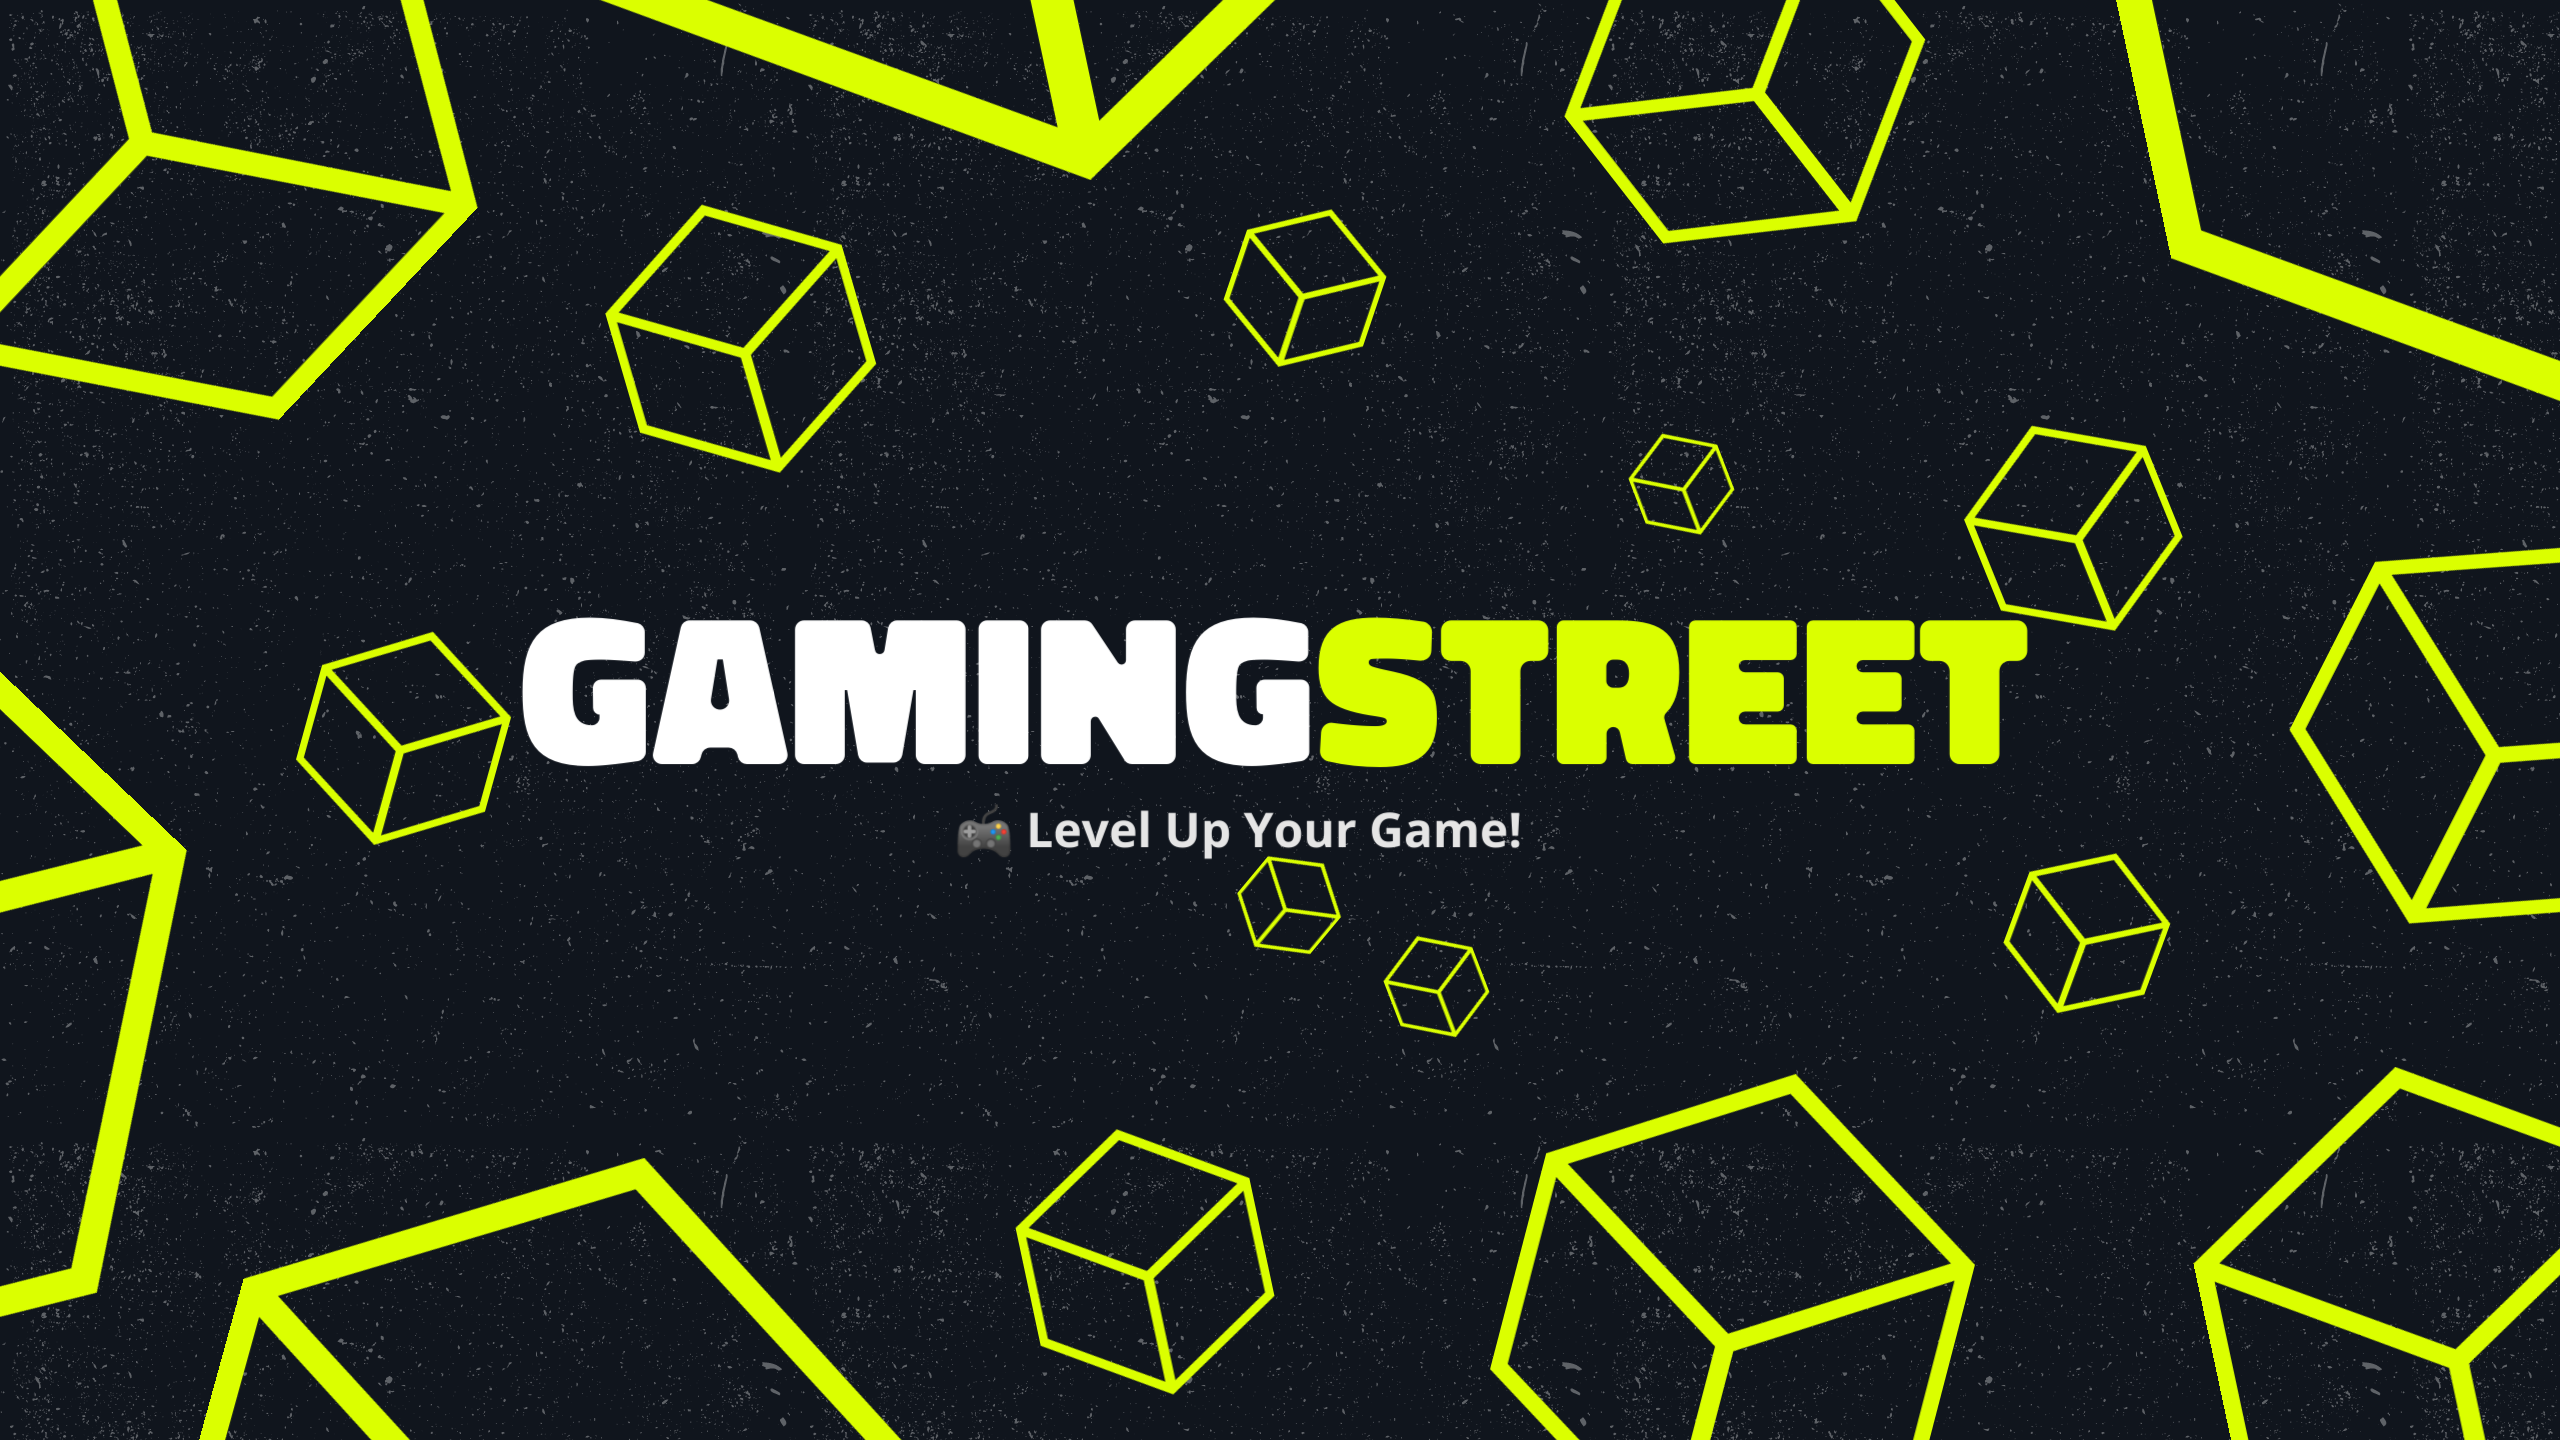
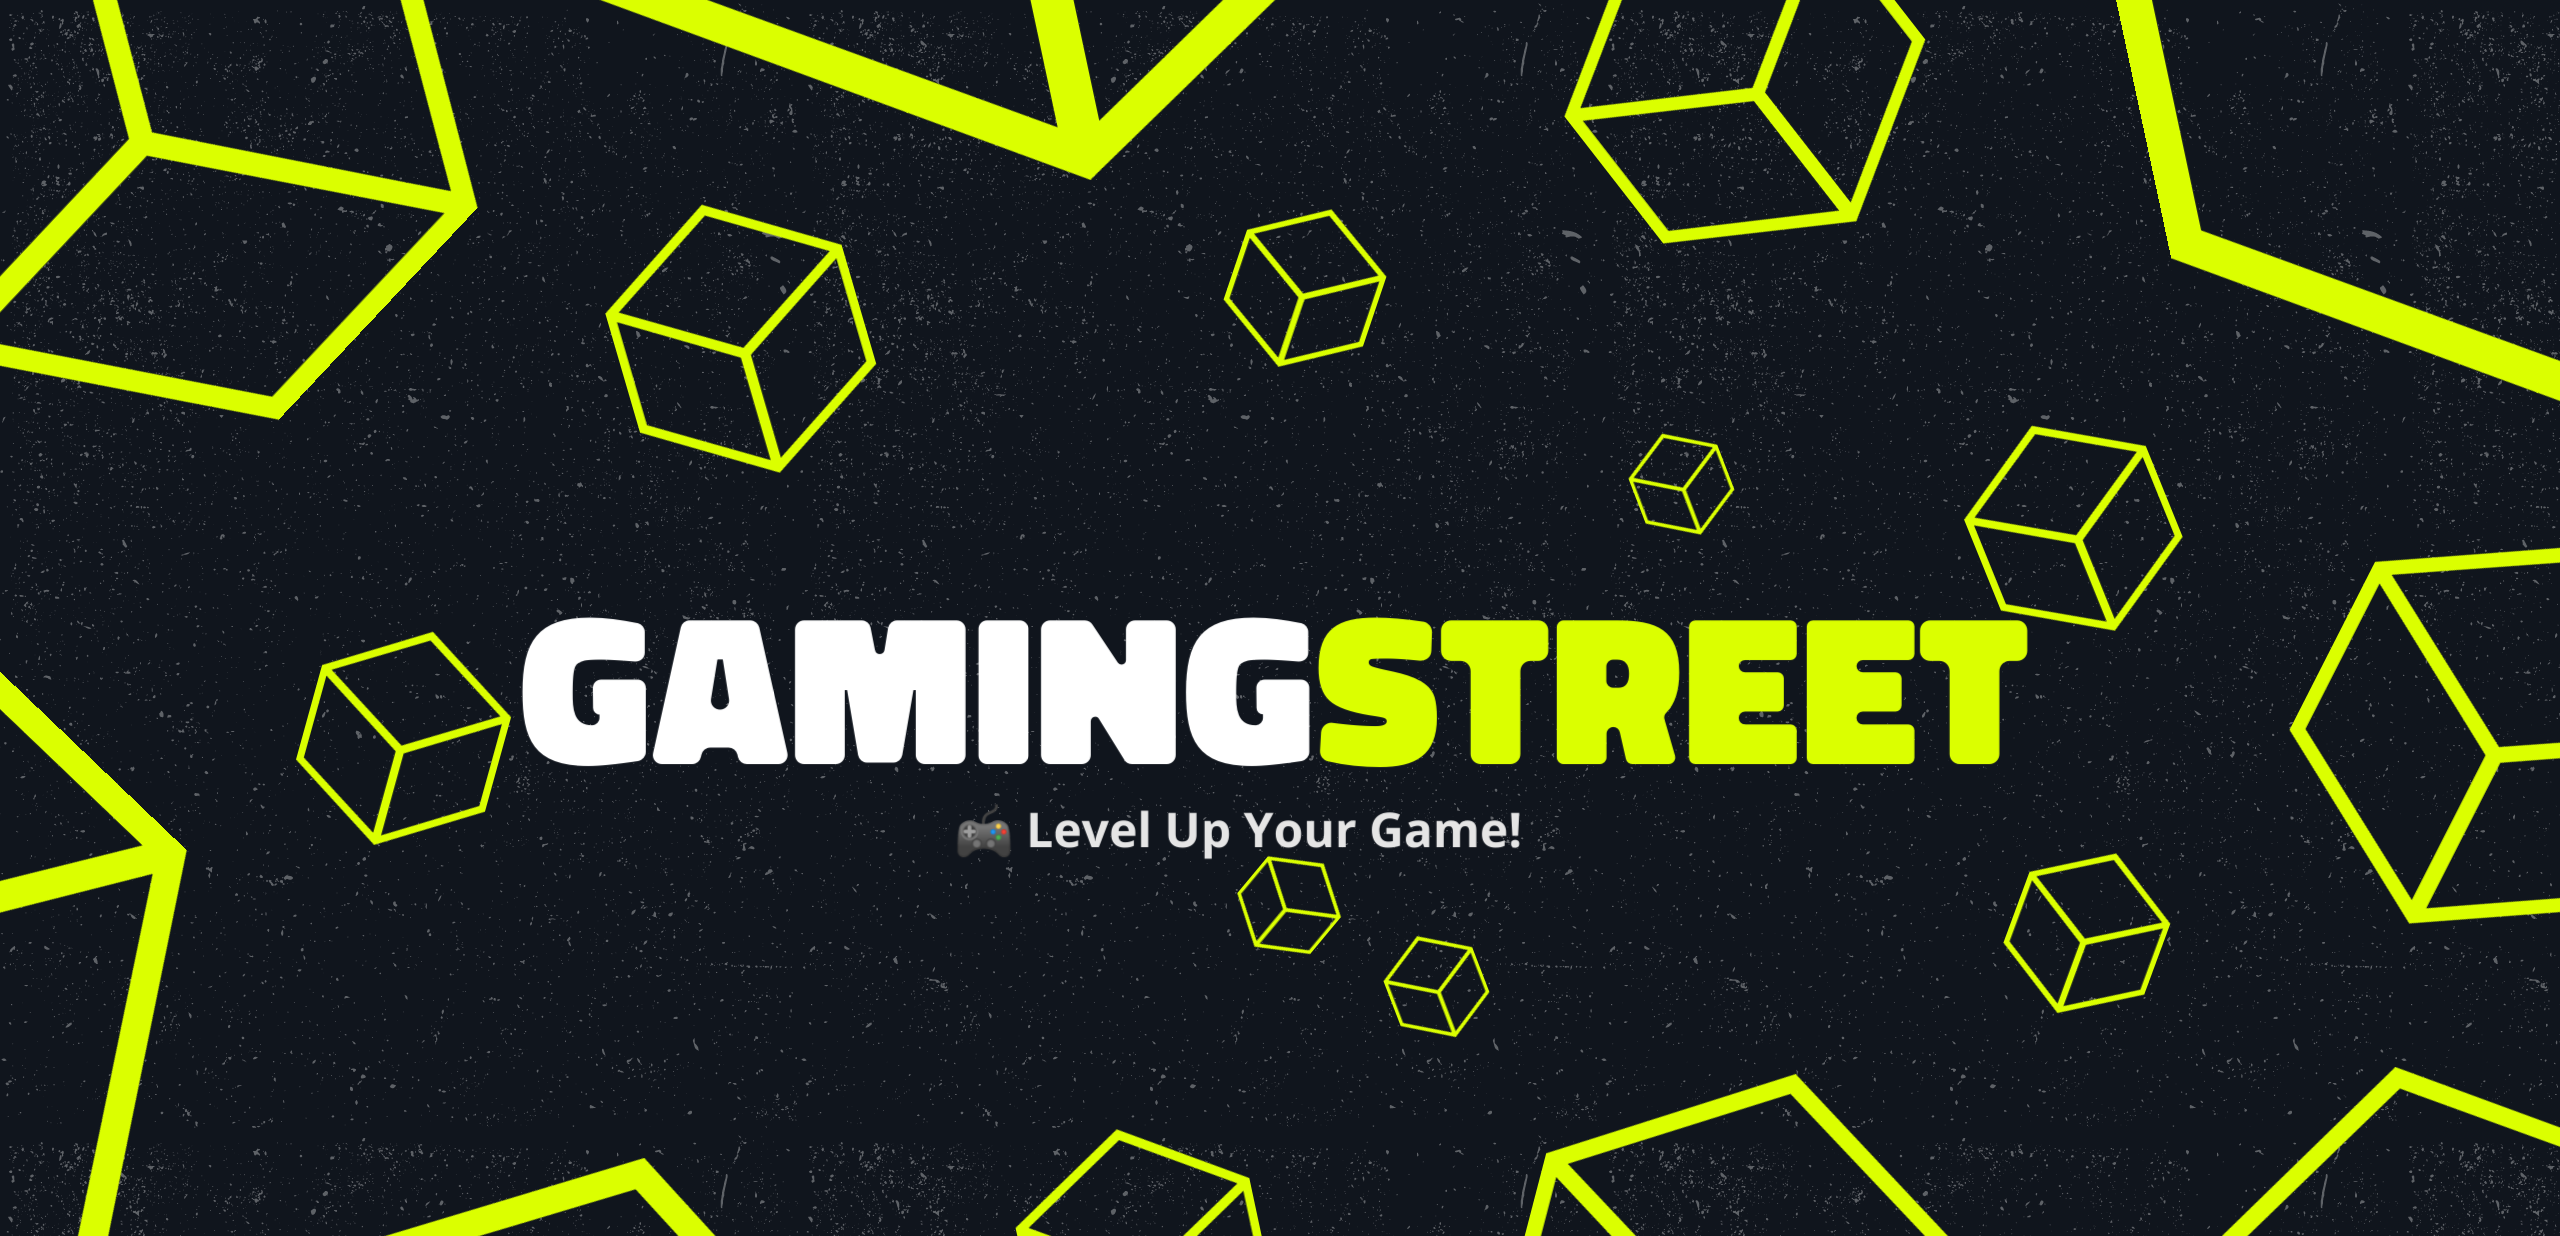
made some changes in intro_banner made changes to product details page

diff --git a/css/prod-details.css b/css/prod-details.css
@@ -102,17 +102,25 @@ body{
     margin: 50px auto;
     padding: 0 20px;
     }
+.product-description {
+    width: 90%;
+    margin: 20px auto;
+    padding: 15px;
+    background-color: #f8f8f8c2; /* Light gray background */
+    border-radius: 8px;
+    box-shadow: 0 2px 5px rgba(0, 0, 0, 0.1); /* Subtle shadow */
+    }
 
 h2 {
     font-size: 24px;
     margin-bottom: 20px;
-    
     }
-p,ul,h1,h2{
+p,ul,h1{
     color: #f0f0f0;
 }
 .desc{
     font-size: 18px;
+    color: black;
 }
 
 ul{

diff --git a/css/index.css b/css/index.css
@@ -1,7 +1,7 @@
 
 .intro-banner img {
     width: 100%;
-    height: 700px;
+    height: 615px;
     border-radius: 10px;
     position:relative;
     margin-bottom: 15px;
@@ -102,6 +102,7 @@ html {
     gap: 10px;
     transition: all 0.3s ease;
     font-size: 18px;
+    font-weight: bold;
     text-decoration: none;
 }
 .scroll-btn:hover {

diff --git a/css/global_style.css b/css/global_style.css
@@ -58,7 +58,7 @@ body {
 .navbar ul li {
     margin:0px 20px ;
     font-weight: bold;
-    font-size: 17px;
+    font-size: 20px;
 }
 .navbar ul li a {
     text-decoration: none;
